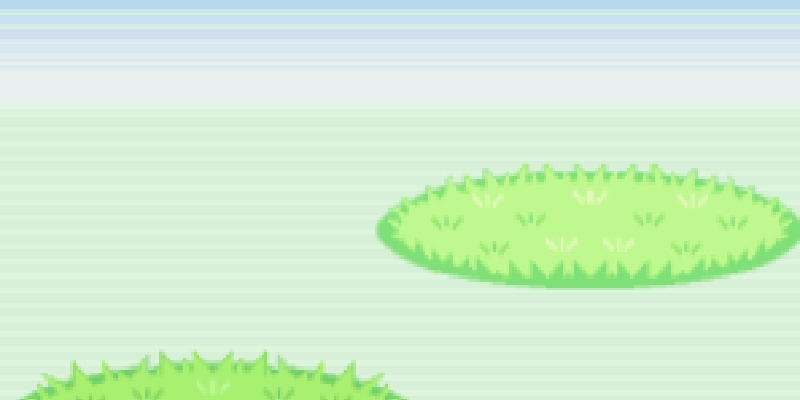
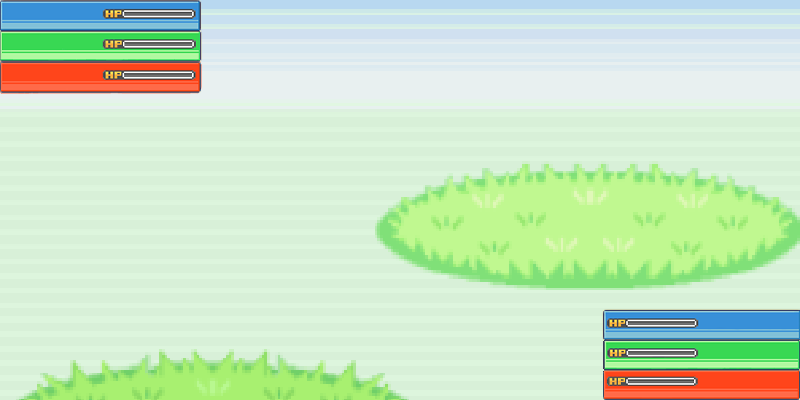
Fully functioning HP UI. Plus threshold for image classifier turned up to prevent incorrect card being read.

Changed region(s): [[0.75, 0.75, 1.0, 1.0], [0.0, 0.0, 0.25, 0.24]]

diff --git a/game.py b/game.py
@@ -26,8 +26,19 @@ SKY_BLUE = (0,200,255)
 # framerate we want the game to use
 FPS = 30
 
+
 # load in assets
 BACKGROUND = pygame.image.load(os.path.join("assets", "background.png"))
+OVERLAY = pygame.image.load(os.path.join("assets", "overlay.png"))
+OVERLAY = pygame.image.load(os.path.join("assets", "overlay.png"))
+H1 = pygame.image.load(os.path.join("assets", "r1.png"))
+H2 = pygame.image.load(os.path.join("assets", "r2.png"))
+H3 = pygame.image.load(os.path.join("assets", "r3.png"))
+H4 = pygame.image.load(os.path.join("assets", "r4.png"))
+H5 = pygame.image.load(os.path.join("assets", "r5.png"))
+H6 = pygame.image.load(os.path.join("assets", "r6.png"))
+
+
 _bulbasaur = pygame.image.load(os.path.join("data", "cards", "bulbasaur_card.png"))
 _tepig = pygame.image.load(os.path.join("data", "cards", "tepig_card.png"))
 _tododile = pygame.image.load(os.path.join("data", "cards", "tododile_card.png"))
@@ -102,8 +113,10 @@ class Game():
 
         # holds hp of your pokemon
         # like usual, 0 is bulbasaur, 1 is tepig, 2 is totodile
-        self.hps = [10] * 3
-        self.enemy_hps = [10] * 3
+        self.hps = [12] * 3
+        self.enemy_hps = [12] * 3
+        self.hpslocation = [628] * 3
+        self.enemy_hpslocation = [124] * 3
 
 
         # easy but unclean way to keep track of if results have been calculated (hp subtracted)
@@ -136,6 +149,23 @@ class Game():
 
         # blit draws over the screen (img, coords)
         WIN.blit(BACKGROUND, (0,0))
+        WIN.blit(H1, (self.enemy_hpslocation[2], 12))
+        WIN.blit(H2, (self.enemy_hpslocation[0], 42))
+        WIN.blit(H3, (self.enemy_hpslocation[1], 73))
+        WIN.blit(H4, (self.hpslocation[2], 321))
+        WIN.blit(H5, (self.hpslocation[0], 351))
+        WIN.blit(H6, (self.hpslocation[1], 379))
+        WIN.blit(OVERLAY, (0, 0))
+        #print('ur hp loco', self.hpslocation[0],self.hpslocation[1],self.hpslocation[2])
+        print('en hp loco', self.enemy_hpslocation[0], self.enemy_hpslocation[1], self.enemy_hpslocation[2])
+        #coords for health bar for animation
+        lHealth1 = 124
+        lHealth2 = 124
+        lHealth3 = 124
+        rHealth1 = 628
+        rHealth2 = 628
+        rHealth3 = 628
+
 
         # check if game is over, if so, draw results and ignore the rest of this function
         if not self.gameResult == None:
@@ -162,7 +192,7 @@ class Game():
 
                 WIN.blit(bulbaB_animation[self.index1], (150, 300))
 
-            # TODO: change to totodileBack animation
+
             elif choice == TOTODILE:
 
                 if self.index1 < 10:
@@ -176,7 +206,7 @@ class Game():
 
                 WIN.blit(totoB_animation[self.index1], (150, 300))
 
-            # TODO: change to tepigBack animation
+
             elif choice == TEPIG:
 
                 if self.index1 < 7:
@@ -190,10 +220,10 @@ class Game():
                     if (self.index1 > 6):  # if removed, bulbasuar will stop moving, like he would in the games. May remove.
                         self.index1 = 0
                     WIN.blit(tepigB_animation[self.index1], (150, 300))
-
+        #old
             # draw the player pokemon's hp
-            hp_text = font.render(f"{self.hps[self.desired_pokemon]}/10", True, BLACK)
-            WIN.blit(hp_text, (150, 250))
+            # hp_text = font.render(f"{self.hps[self.desired_pokemon]}/12", True, BLACK)
+            # WIN.blit(hp_text, (150, 250))
 
 
         # reassigning this var to change color of hps
@@ -221,26 +251,26 @@ class Game():
                     color = BLACK
                 return color
 
-
+    # NO LONGER NEEDED. REPLACED BY ANIMATION
         # draw hp of all your pokemon
-        hp_label = font_small.render(f"Your pokemon:", True, BLACK)
-        WIN.blit(hp_label, (20,0))
-        bulbasaur_hp = font_small.render(f"bulbasaur: {self.hps[0]}/10", True, get_color(0))
-        WIN.blit(bulbasaur_hp, (20,35))
-        tepig_hp = font_small.render(f"tepig: {self.hps[1]}/10", True, get_color(1))
-        WIN.blit(tepig_hp, (20,60))
-        totodile_hp = font_small.render(f"totodile: {self.hps[2]}/10", True, get_color(2))
-        WIN.blit(totodile_hp, (20,85))
+        # hp_label = font_small.render(f"Your pokemon:", True, BLACK)
+        # WIN.blit(hp_label, (20,0))
+        # bulbasaur_hp = font_small.render(f"bulbasaur: {self.hps[0]}/10", True, get_color(0))
+        # WIN.blit(bulbasaur_hp, (20,35))
+        # tepig_hp = font_small.render(f"tepig: {self.hps[1]}/10", True, get_color(1))
+        # WIN.blit(tepig_hp, (20,60))
+        # totodile_hp = font_small.render(f"totodile: {self.hps[2]}/10", True, get_color(2))
+        # WIN.blit(totodile_hp, (20,85))
 
         # draw hp of enemy pokemon
-        enemy_hp_label = font_small.render(f"Enemy pokemon:", True, BLACK)
-        WIN.blit(enemy_hp_label, (640, 0))
-        enemy_bulbasaur_hp = font_small.render(f"bulbasaur:{self.enemy_hps[0]}/10", True, get_color(0, player=False))
-        WIN.blit(enemy_bulbasaur_hp, (640,35))
-        enemy_tepig_hp = font_small.render(f"tepig: {self.enemy_hps[1]}/10", True, get_color(1, player=False))
-        WIN.blit(enemy_tepig_hp, (640,60))
-        enemy_totodile_hp = font_small.render(f"totodile: {self.enemy_hps[2]}/10", True, get_color(2, player=False))
-        WIN.blit(enemy_totodile_hp, (640,85))
+        # enemy_hp_label = font_small.render(f"Enemy pokemon:", True, BLACK)
+        # WIN.blit(enemy_hp_label, (640, 0))
+        # enemy_bulbasaur_hp = font_small.render(f"bulbasaur:{self.enemy_hps[0]}/10", True, get_color(0, player=False))
+        # WIN.blit(enemy_bulbasaur_hp, (640,35))
+        # enemy_tepig_hp = font_small.render(f"tepig: {self.enemy_hps[1]}/10", True, get_color(1, player=False))
+        # WIN.blit(enemy_tepig_hp, (640,60))
+        # enemy_totodile_hp = font_small.render(f"totodile: {self.enemy_hps[2]}/10", True, get_color(2, player=False))
+        # WIN.blit(enemy_totodile_hp, (640,85))
 
         
 
@@ -337,10 +367,10 @@ class Game():
 
                 WIN.blit(tepigF_animation[self.index], (550, 150))
 
-
+    #old
         # after pokemon is drawn, also draw its hp
-        hp_text = font.render(f"{self.enemy_hps[self.enemy_pokemon]}/10", True, BLACK)
-        WIN.blit(hp_text,(550, 100))
+        # hp_text = font.render(f"{self.enemy_hps[self.enemy_pokemon]}/12", True, BLACK)
+        # WIN.blit(hp_text,(550, 100))
 
     def _draw_results(self):
         if self.pokemon_chosen_time == 0 or self.enemy_pokemon == None:
@@ -369,14 +399,18 @@ class Game():
         
         # adjust health from result of the battle
         if result == 'win' and not self.results_done:
-            self.hps[self.desired_pokemon] -= 2
+            self.hps[self.desired_pokemon] -= 0
             self.enemy_hps[self.enemy_pokemon] -= 6
+            self.enemy_hpslocation[self.enemy_pokemon] -= 36
         elif result == 'lose' and not self.results_done:
             self.hps[self.desired_pokemon] -= 6
-            self.enemy_hps[self.enemy_pokemon] -= 2
+            self.enemy_hps[self.enemy_pokemon] -= 0
+            self.hpslocation[self.desired_pokemon] -= 36
         elif result == 'tie' and not self.results_done:
-            self.hps[self.desired_pokemon] -= 4
-            self.enemy_hps[self.enemy_pokemon] -= 4
+            self.hps[self.desired_pokemon] -= 3
+            self.enemy_hps[self.enemy_pokemon] -= 3
+            self.hpslocation[self.enemy_pokemon] -= 18
+            self.enemy_hpslocation[self.enemy_pokemon] -= 18
         self.results_done = True
 
         # normalize hp (don't let it go negative)

diff --git a/ImageClassifier.py b/ImageClassifier.py
@@ -35,7 +35,7 @@ class ImageClassifier:
             descriptList.append(descriptor)
         return descriptList
 
-    def findID(self, img, thresh=15):
+    def findID(self, img, thresh=20):
         points2, descriptor2 = self.sift.detectAndCompute(img, None)
         bf = cv2.BFMatcher()
         matchList = []
